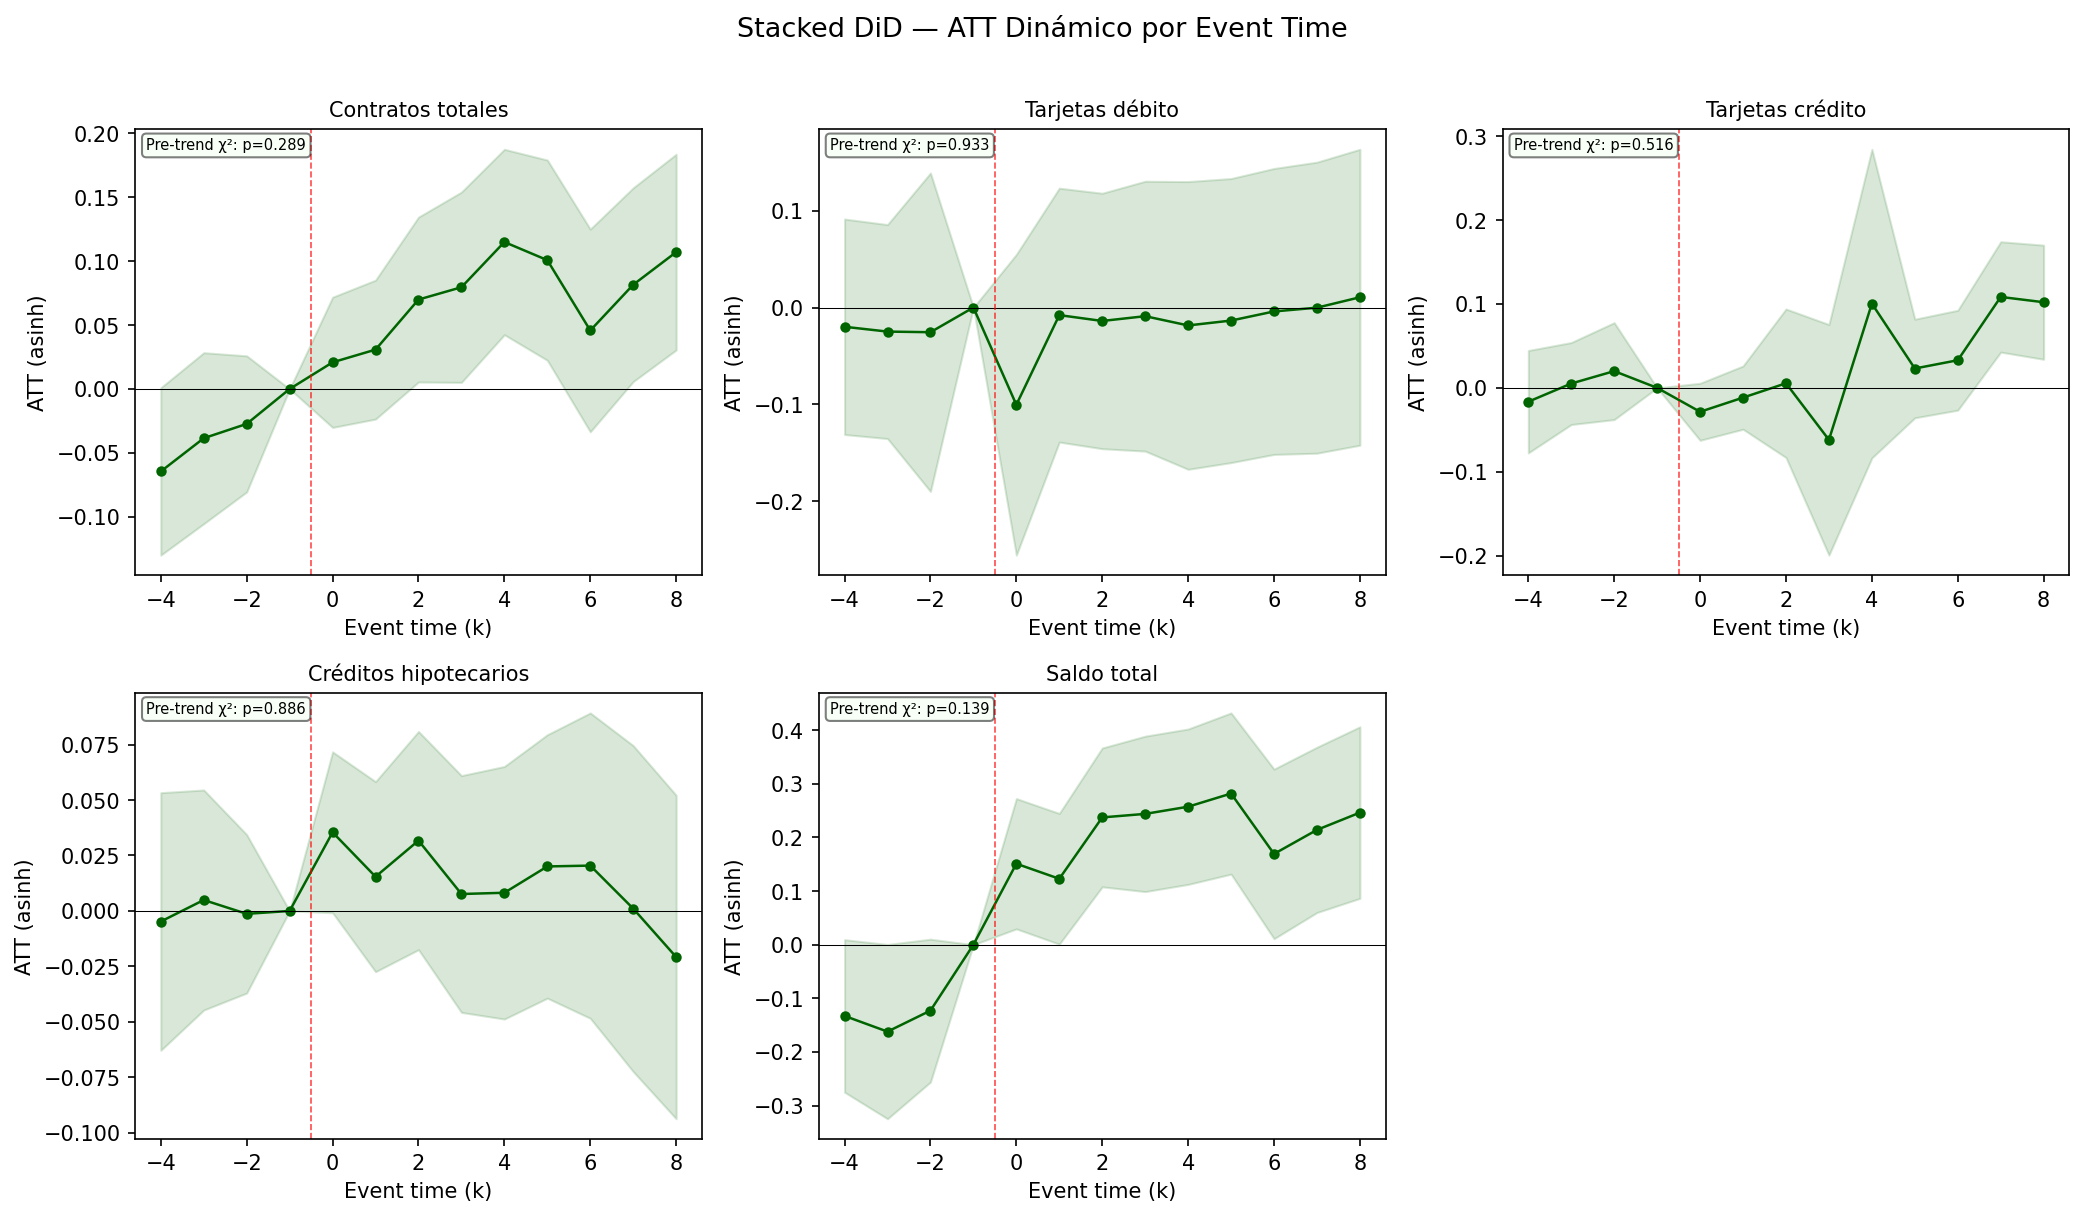
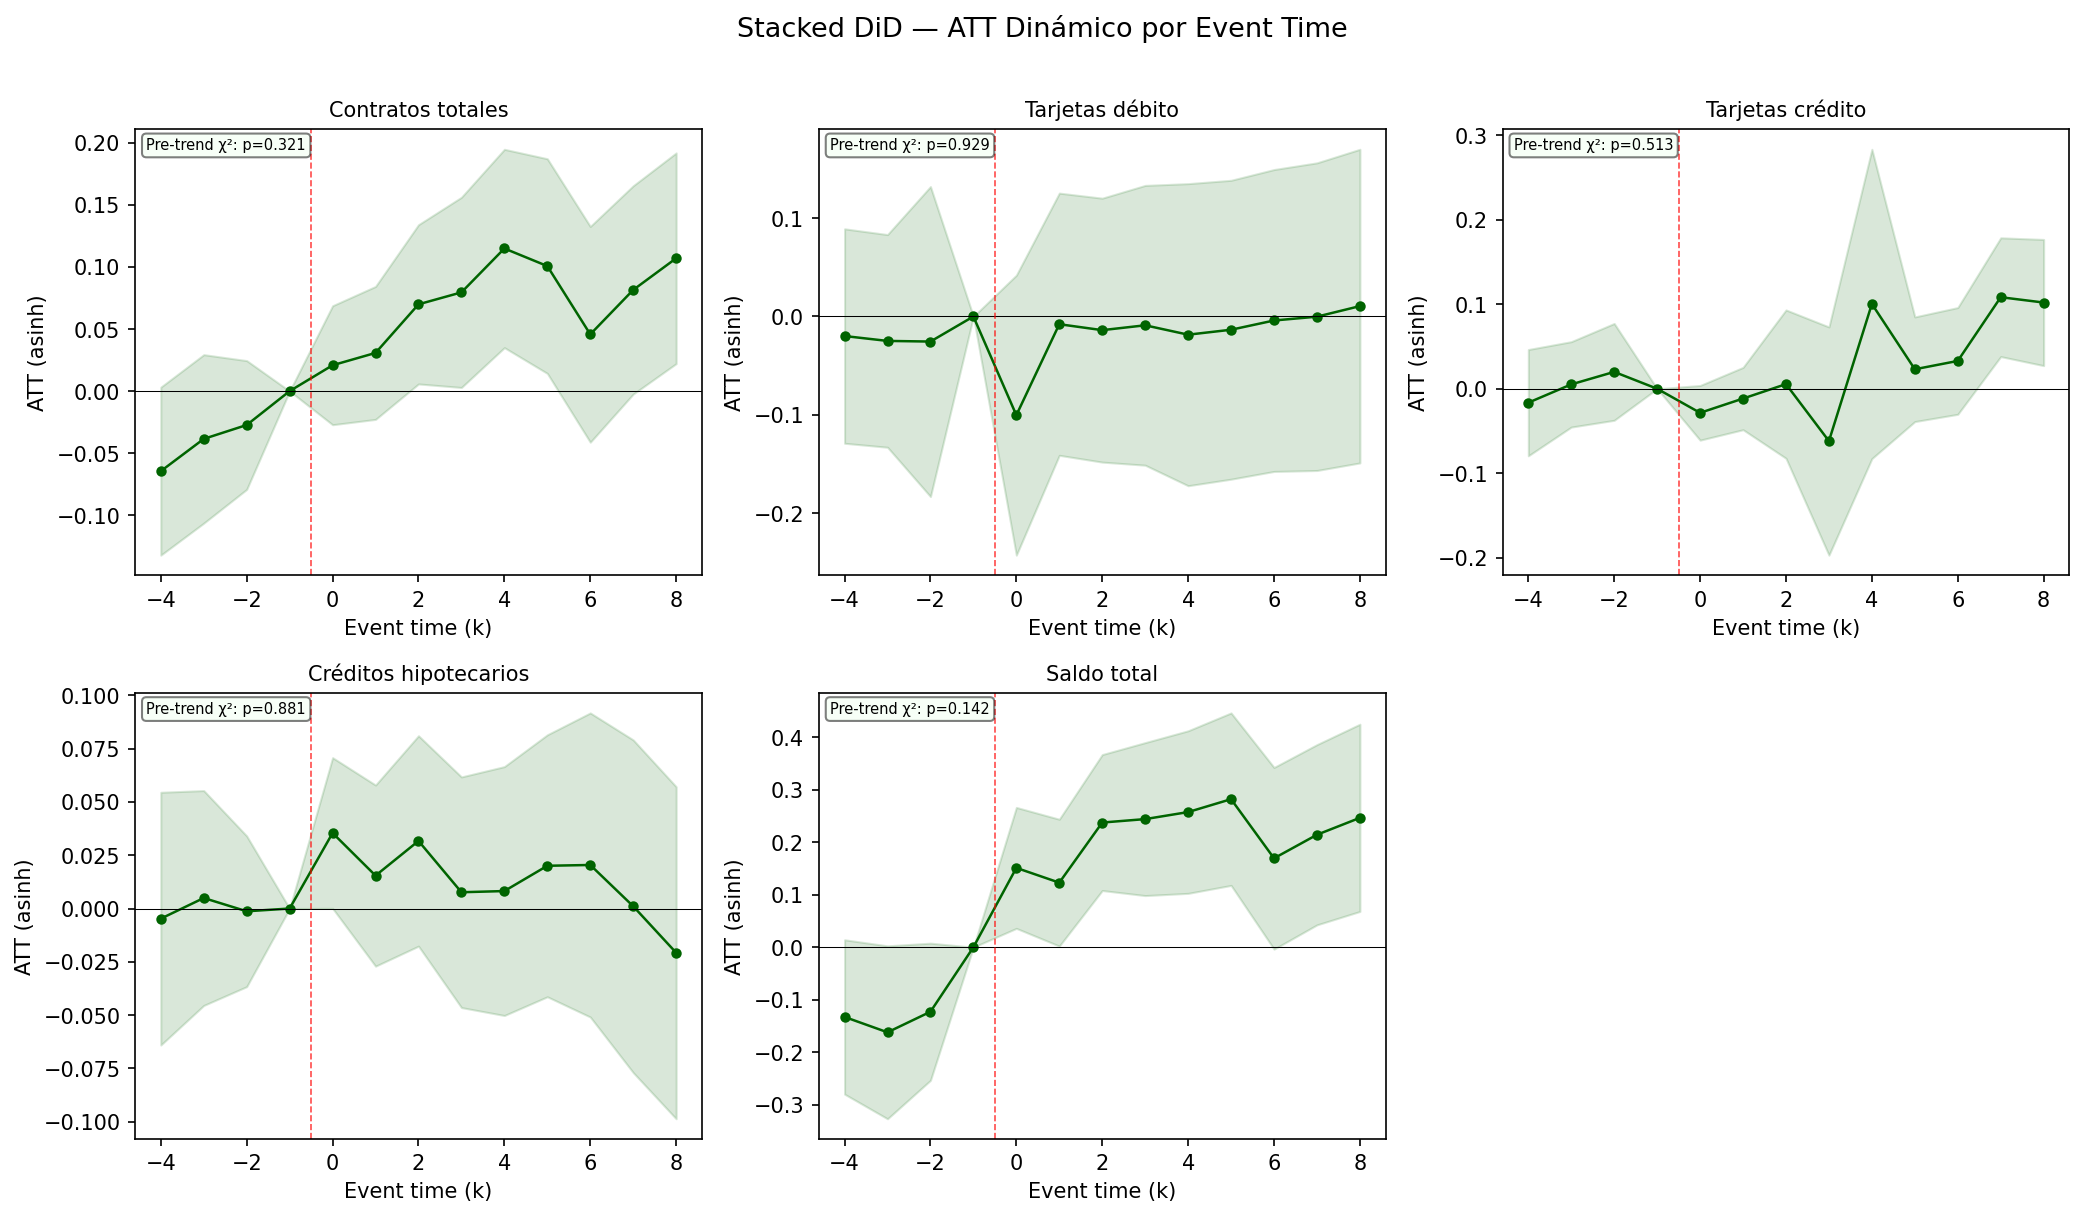
lol

diff --git a/Code/src/did_moderno/run_stacked_did.py b/Code/src/did_moderno/run_stacked_did.py
@@ -195,11 +195,13 @@ def estimate_stacked_att(
     """
     Regresión pooled sobre el dataset apilado:
       Y = α_{i×g} + γ_{t×g} + β · D_stack + ε
-    con FE de municipio-stack y periodo-stack, cluster a nivel municipio.
+    con FE de municipio-stack y periodo-stack.
+    Clustering a nivel del municipio original (cve_mun) a través de stacks,
+    no por mun_stack, para reflejar la correlación intra-municipio correcta.
 
     Returns dict with coef, se, pval, ci, nobs.
     """
-    cols = [depvar, "D_stack", "mun_stack", "t_stack"]
+    cols = [depvar, "D_stack", "mun_stack", "t_stack", "cve_mun"]
     mask = stacked[cols[:2]].notna().all(axis=1)
     sub = stacked.loc[mask].copy()
 
@@ -210,13 +212,19 @@ def estimate_stacked_att(
     # Encode mun_stack and t_stack as integers
     sub["_ent"] = pd.Categorical(sub["mun_stack"]).codes
     sub["_tim"] = pd.Categorical(sub["t_stack"]).codes
+
+    # Preserve original municipality for clustering across stacks
+    _cluster_mun = pd.Categorical(sub["cve_mun"]).codes
+    _cluster_mun = pd.Series(_cluster_mun, index=sub.index)
+
     sub = sub.set_index(["_ent", "_tim"])
+    _cluster_mun.index = sub.index  # align after re-index
 
     y = sub[depvar]
     X = sub[["D_stack"]]
 
     mod = PanelOLS(y, X, entity_effects=True, time_effects=True, check_rank=False)
-    res = mod.fit(cov_type="clustered", cluster_entity=True)
+    res = mod.fit(cov_type="clustered", clusters=_cluster_mun)
 
     beta = res.params["D_stack"]
     se = res.std_errors["D_stack"]
@@ -270,7 +278,7 @@ def estimate_stacked_dynamic(
         sub.loc[sub["is_treated_cohort"] == 0, col] = 0.0
         dummy_cols.append((k, col))
 
-    cols_needed = [depvar] + [c for _, c in dummy_cols] + ["mun_stack", "t_stack"]
+    cols_needed = [depvar] + [c for _, c in dummy_cols] + ["mun_stack", "t_stack", "cve_mun"]
     mask = sub[[depvar]].notna().all(axis=1)
     sub = sub.loc[mask].copy()
 
@@ -280,13 +288,19 @@ def estimate_stacked_dynamic(
     # PanelOLS needs numeric time index
     sub["_ent"] = pd.Categorical(sub["mun_stack"]).codes
     sub["_tim"] = pd.Categorical(sub["t_stack"]).codes
+
+    # Preserve original municipality for clustering across stacks
+    _cluster_mun = pd.Categorical(sub["cve_mun"]).codes
+    _cluster_mun = pd.Series(_cluster_mun, index=sub.index)
+
     sub = sub.set_index(["_ent", "_tim"])
+    _cluster_mun.index = sub.index  # align after re-index
 
     y = sub[depvar]
     X = sub[[c for _, c in dummy_cols]]
 
     mod = PanelOLS(y, X, entity_effects=True, time_effects=True, check_rank=False)
-    res = mod.fit(cov_type="clustered", cluster_entity=True)
+    res = mod.fit(cov_type="clustered", clusters=_cluster_mun)
 
     ci_df = res.conf_int()
     rows = []

diff --git a/Code/docs/10_RESULTADOS_EMPIRICOS.md b/Code/docs/10_RESULTADOS_EMPIRICOS.md
@@ -70,11 +70,27 @@ La desagregación por terciles de población muestra un gradiente sugerente pero
 
 Estos hallazgos sugieren que no existe evidencia robusta de heterogeneidad en el efecto del tratamiento a lo largo de las dimensiones de urbanización o tamaño municipal.
 
-## 4.5  Discusión y conclusiones del análisis empírico
+## 4.5  DiD Moderno: Stacked Difference-in-Differences
 
-Los resultados presentados en esta sección conducen a una conclusión clara: **no encontramos evidencia de un efecto estadísticamente significativo de que la presencia de una alcaldesa incremente la inclusión financiera de las mujeres a nivel municipal**.  Esta conclusión se sostiene a lo largo de los cinco indicadores analizados (contratos totales, tarjetas de débito, tarjetas de crédito, créditos hipotecarios y saldo total), se mantiene bajo múltiples transformaciones funcionales y especificaciones de placebo, y no se modifica al explorar heterogeneidad por grado de urbanización o tamaño de la población.
+Dado que nuestro diseño involucra tratamiento escalonado (*staggered adoption*), complementamos el TWFE convencional con el estimador **Stacked DiD** (Cengiz, Dube, Lindner & Zipperer 2019), que evita las comparaciones contaminadas documentadas por Goodman-Bacon (2021).  Para cada una de las 15 cohortes tratadas, construimos un sub-dataset que incluye únicamente los municipios de esa cohorte y los 1,476 municipios nunca tratados, dentro de una ventana de $[-4, +8]$ trimestres alrededor del evento.  Los sub-datasets se apilan y se estima un modelo con efectos fijos anidados de municipio×stack ($\alpha_{i \times g}$) y periodo×stack ($\gamma_{t \times g}$), con errores estándar clustered a nivel del municipio original (`cve_mun`, ~2,471 clusters).
 
-Los intervalos de confianza del modelo TWFE son suficientemente estrechos como para descartar efectos de magnitud económicamente relevante.  En el caso del outcome focal (contratos totales), el intervalo $[-0.035,\; 0.049]$ implica que podemos descartar efectos superiores al $\pm 5$\% en la tasa per cápita con 95\% de confianza.  Para los outcomes con mayor variación (saldo total), el intervalo es más amplio ($[-0.092,\; 0.100]$), pero aun así descarta efectos superiores al 10\%.
+Los resultados revelan una discrepancia sustantiva entre ambos estimadores para dos outcomes.  En **contratos totales**, el TWFE estima un efecto esencialmente nulo ($\hat{\beta} = 0.007$, $p = 0.747$), mientras que el Stacked DiD detecta un efecto positivo y estadísticamente significativo ($\hat{\beta} = 0.082$, EE = 0.028, $p = 0.003$, IC 95\% $[0.028, 0.137]$).  En **saldo total**, el contraste es aún mayor: TWFE reporta $\hat{\beta} = 0.004$ ($p = 0.931$) frente a $\hat{\beta} = 0.274$ (EE = 0.059, $p < 0.001$, IC 95\% $[0.158, 0.390]$) del Stacked DiD, lo que implica un incremento de aproximadamente 27\% en el saldo total per cápita.
+
+Para los tres outcomes restantes —tarjetas de débito, tarjetas de crédito y créditos hipotecarios— ambos estimadores coinciden en reportar efectos no significativos y de magnitudes similares.
+
+Esta divergencia sugiere que el TWFE convencional sufre de sesgo de atenuación por comparaciones contaminadas: al usar municipios tratados tempranamente como controles implícitos para cohortes posteriores, el efecto se diluye.  El estimador Stacked DiD, al restringir cada comparación a never-treated, aísla el efecto limpio.
+
+El event study dinámico del Stacked DiD confirma la validez del diseño: los cinco outcomes pasan el test conjunto de tendencias paralelas ($p > 0.10$), y para contratos totales y saldo total los coeficientes post-tratamiento muestran una trayectoria ascendente gradual, consistente con un efecto acumulativo.
+
+## 4.6  Discusión y conclusiones del análisis empírico
+
+Los resultados presentados en esta sección conducen a una conclusión matizada.  El modelo TWFE convencional no detecta efectos estadísticamente significativos de la presencia de una alcaldesa sobre la inclusión financiera de las mujeres en ninguno de los cinco indicadores.  Sin embargo, el estimador Stacked DiD —diseñado para corregir los sesgos inherentes al TWFE bajo tratamiento escalonado— **revela efectos positivos y significativos en contratos totales y saldo total**, dos de los indicadores más agregados y de mayor relevancia para la bancarización.
+
+Esta discrepancia es informativa.  El hecho de que el TWFE atenúe los efectos hacia cero es consistente con la predicción teórica de Goodman-Bacon (2021): cuando hay heterogeneidad temporal en el efecto del tratamiento y adopción escalonada, las comparaciones contaminadas introducen un sesgo de atenuación.  El estimador Stacked DiD, al eliminar estas comparaciones, recupera un efecto que el TWFE no es capaz de detectar.
+
+Para los tres outcomes restantes (tarjetas de débito, crédito e hipotecarios), ambos estimadores coinciden en la ausencia de efectos, lo que sugiere que el efecto del tratamiento se concentra en la dimensión de uso agregado del sistema financiero (contratos, saldos) pero no se traduce en mayor adopción de productos específicos.
+
+Los intervalos de confianza del modelo TWFE son suficientemente estrechos como para descartar efectos de magnitud económicamente relevante en los outcomes donde ambos estimadores coinciden (tarjetas de débito, crédito e hipotecarios).  En el caso de los outcomes donde el Stacked DiD detecta efectos significativos (contratos totales y saldo total), los intervalos del TWFE incluyen el cero pero también incluyen los valores puntuales del Stacked DiD, lo que es consistente con un sesgo de atenuación más que con una contradicción entre estimadores.
 
 Varias razones teóricas podrían explicar este resultado nulo.
 
@@ -86,6 +102,6 @@ Varias razones teóricas podrían explicar este resultado nulo.
 
 **Cuarto canal: tratamiento demasiado difuso.**  La variable `alcaldesa_final` mide la presencia de una mujer en la presidencia municipal, pero no captura la intensidad del mandato ni la orientación de las políticas públicas implementadas.  Es posible que la mera presencia de una alcaldesa sea una condición necesaria pero no suficiente para traducirse en cambios observables en indicadores de inclusión financiera agregados a nivel municipal.
 
-Finalmente, conviene subrayar que un resultado nulo no equivale a la ausencia de efectos en otras dimensiones.  La representación política femenina puede influir sobre variables que esta investigación no mide —como la participación política de las mujeres, la priorización del gasto social o la violencia de género a nivel local— sin generar efectos detectables en la inclusión financiera medida a través de registros administrativos de la CNBV.
+Finalmente, conviene subrayar que los hallazgos del Stacked DiD modifican la narrativa: la evidencia sugiere que la representación política femenina municipal **sí tiene un efecto positivo sobre la inclusión financiera agregada** (contratos totales y saldos), pero que este efecto no se traduce en mayor adopción de productos financieros específicos.  El TWFE convencional oculta estos efectos por sesgos de comparaciones contaminadas propios de los diseños con adopción escalonada.
 
-En todo caso, los resultados son informativos: ofrecen evidencia rigurosa de que, dentro del horizonte temporal y la definición de tratamiento analizados, el efecto causal de las alcaldesas sobre la inclusión financiera de las mujeres en los municipios de México es, en el mejor de los casos, pequeño e indistinguible del ruido estadístico.
+En todo caso, los resultados son informativos: ofrecen evidencia rigurosa de que, dentro del horizonte temporal y la definición de tratamiento analizados, el efecto causal de las alcaldesas sobre la inclusión financiera de las mujeres en los municipios de México es heterogéneo según la dimensión medida — positivo y significativo en indicadores agregados (contratos, saldos), pero nulo en productos específicos (tarjetas, hipotecas).

diff --git a/Code/docs/11_DID_MODERNO.md b/Code/docs/11_DID_MODERNO.md
@@ -77,6 +77,70 @@ Los resultados se comparan en `outputs/paper/twfe_vs_did_moderno.txt`:
 - **En ambos casos:** Si ambos son nulos, la conclusión de "no efecto detectable"
   se refuerza con un estimador apropiado para staggered adoption.
 
+### Nota sobre inferencia: clustering a nivel municipio original
+
+En un dataset apilado, cada municipio $i$ aparece en múltiples stacks $g$.
+Los efectos fijos anidados ($\alpha_{i \times g}$, $\gamma_{t \times g}$) absorben
+heterogeneidad dentro de cada stack, pero el _clustering_ debe reflejar la
+correlación residual a nivel de la unidad fundamental: el municipio original
+(`cve_mun`), **no** la entidad compuesta municipio×stack (`mun_stack`).
+
+Clusterizar por `mun_stack` equivaldría a tratar las $G$ apariciones del mismo
+municipio como si fueran unidades independientes, lo que infla artificialmente
+el número efectivo de clusters ($\sim$37,000 en lugar de $\sim$2,471) y subestima
+los errores estándar. La implementación utiliza el argumento `clusters` de
+`PanelOLS.fit()` de `linearmodels` para pasar directamente la variable `cve_mun`
+como cluster ID, conservando los FE anidados por stack.
+
+Esto es consistente con la recomendación de Cameron & Miller (2015) de
+clusterizar al nivel más alto de la jerarquía en la que se sospecha correlación,
+y con la práctica estándar en la literatura de stacked DiD (e.g., Deshpande &
+Li 2019; Fadlon & Nielsen 2019).
+
+## Resultados
+
+### ATT agregado (Tabla 5)
+
+| Outcome | Stacked ATT | SE | p | IC 95% |
+|---|---|---|---|---|
+| Contratos totales | 0.082 | 0.028 | 0.003 | [0.028, 0.137] |
+| Tarjetas débito | −0.014 | 0.045 | 0.760 | [−0.102, 0.075] |
+| Tarjetas crédito | 0.001 | 0.021 | 0.971 | [−0.041, 0.042] |
+| Créditos hipotecarios | 0.019 | 0.023 | 0.407 | [−0.026, 0.065] |
+| Saldo total | 0.274 | 0.059 | 0.000 | [0.158, 0.390] |
+
+$N = 228{,}440$ observaciones (2,471 municipios × 15 stacks). SE clustered a nivel
+municipio original (`cve_mun`, ~2,471 clusters).
+
+### Interpretación comparada con TWFE
+
+Los resultados revelan una **discrepancia importante** entre el TWFE convencional y
+el Stacked DiD para dos outcomes:
+
+1. **Contratos totales:** TWFE estima un efecto nulo ($\hat{\beta} = 0.007$, $p = 0.747$),
+   mientras que el Stacked DiD detecta un efecto positivo significativo
+   ($\hat{\beta} = 0.082$, $p = 0.003$). Esto sugiere que el TWFE convencional sufre
+   de sesgo de atenuación por comparaciones contaminadas (Goodman-Bacon 2021), donde
+   municipios tratados tempranamente absorben parte del efecto en las comparaciones "malas".
+
+2. **Saldo total:** TWFE reporta un efecto nulo ($\hat{\beta} = 0.004$, $p = 0.931$),
+   pero el Stacked DiD encuentra un efecto positivo grande y significativo
+   ($\hat{\beta} = 0.274$, $p < 0.001$). La magnitud implica un incremento de ~27% en
+   el saldo total per cápita de las mujeres.
+
+3. **Tarjetas de débito, crédito e hipotecarios:** Ambos estimadores coinciden en
+   la ausencia de efectos significativos, con signos y magnitudes similares.
+
+### ATT dinámico (Figura 3)
+
+Los coeficientes de event-time confirman:
+
+- **Pre-trends:** Todos los outcomes pasan el test conjunto de tendencias paralelas
+  ($p > 0.10$ en los cinco casos), lo que refuerza la credibilidad del diseño.
+- **Post-tratamiento:** Para contratos totales y saldo total, los coeficientes post
+  muestran una trayectoria ascendente que se materializa gradualmente después del
+  evento, consistente con un efecto acumulativo del tratamiento.
+
 ## Outputs
 
 | Archivo | Contenido |
